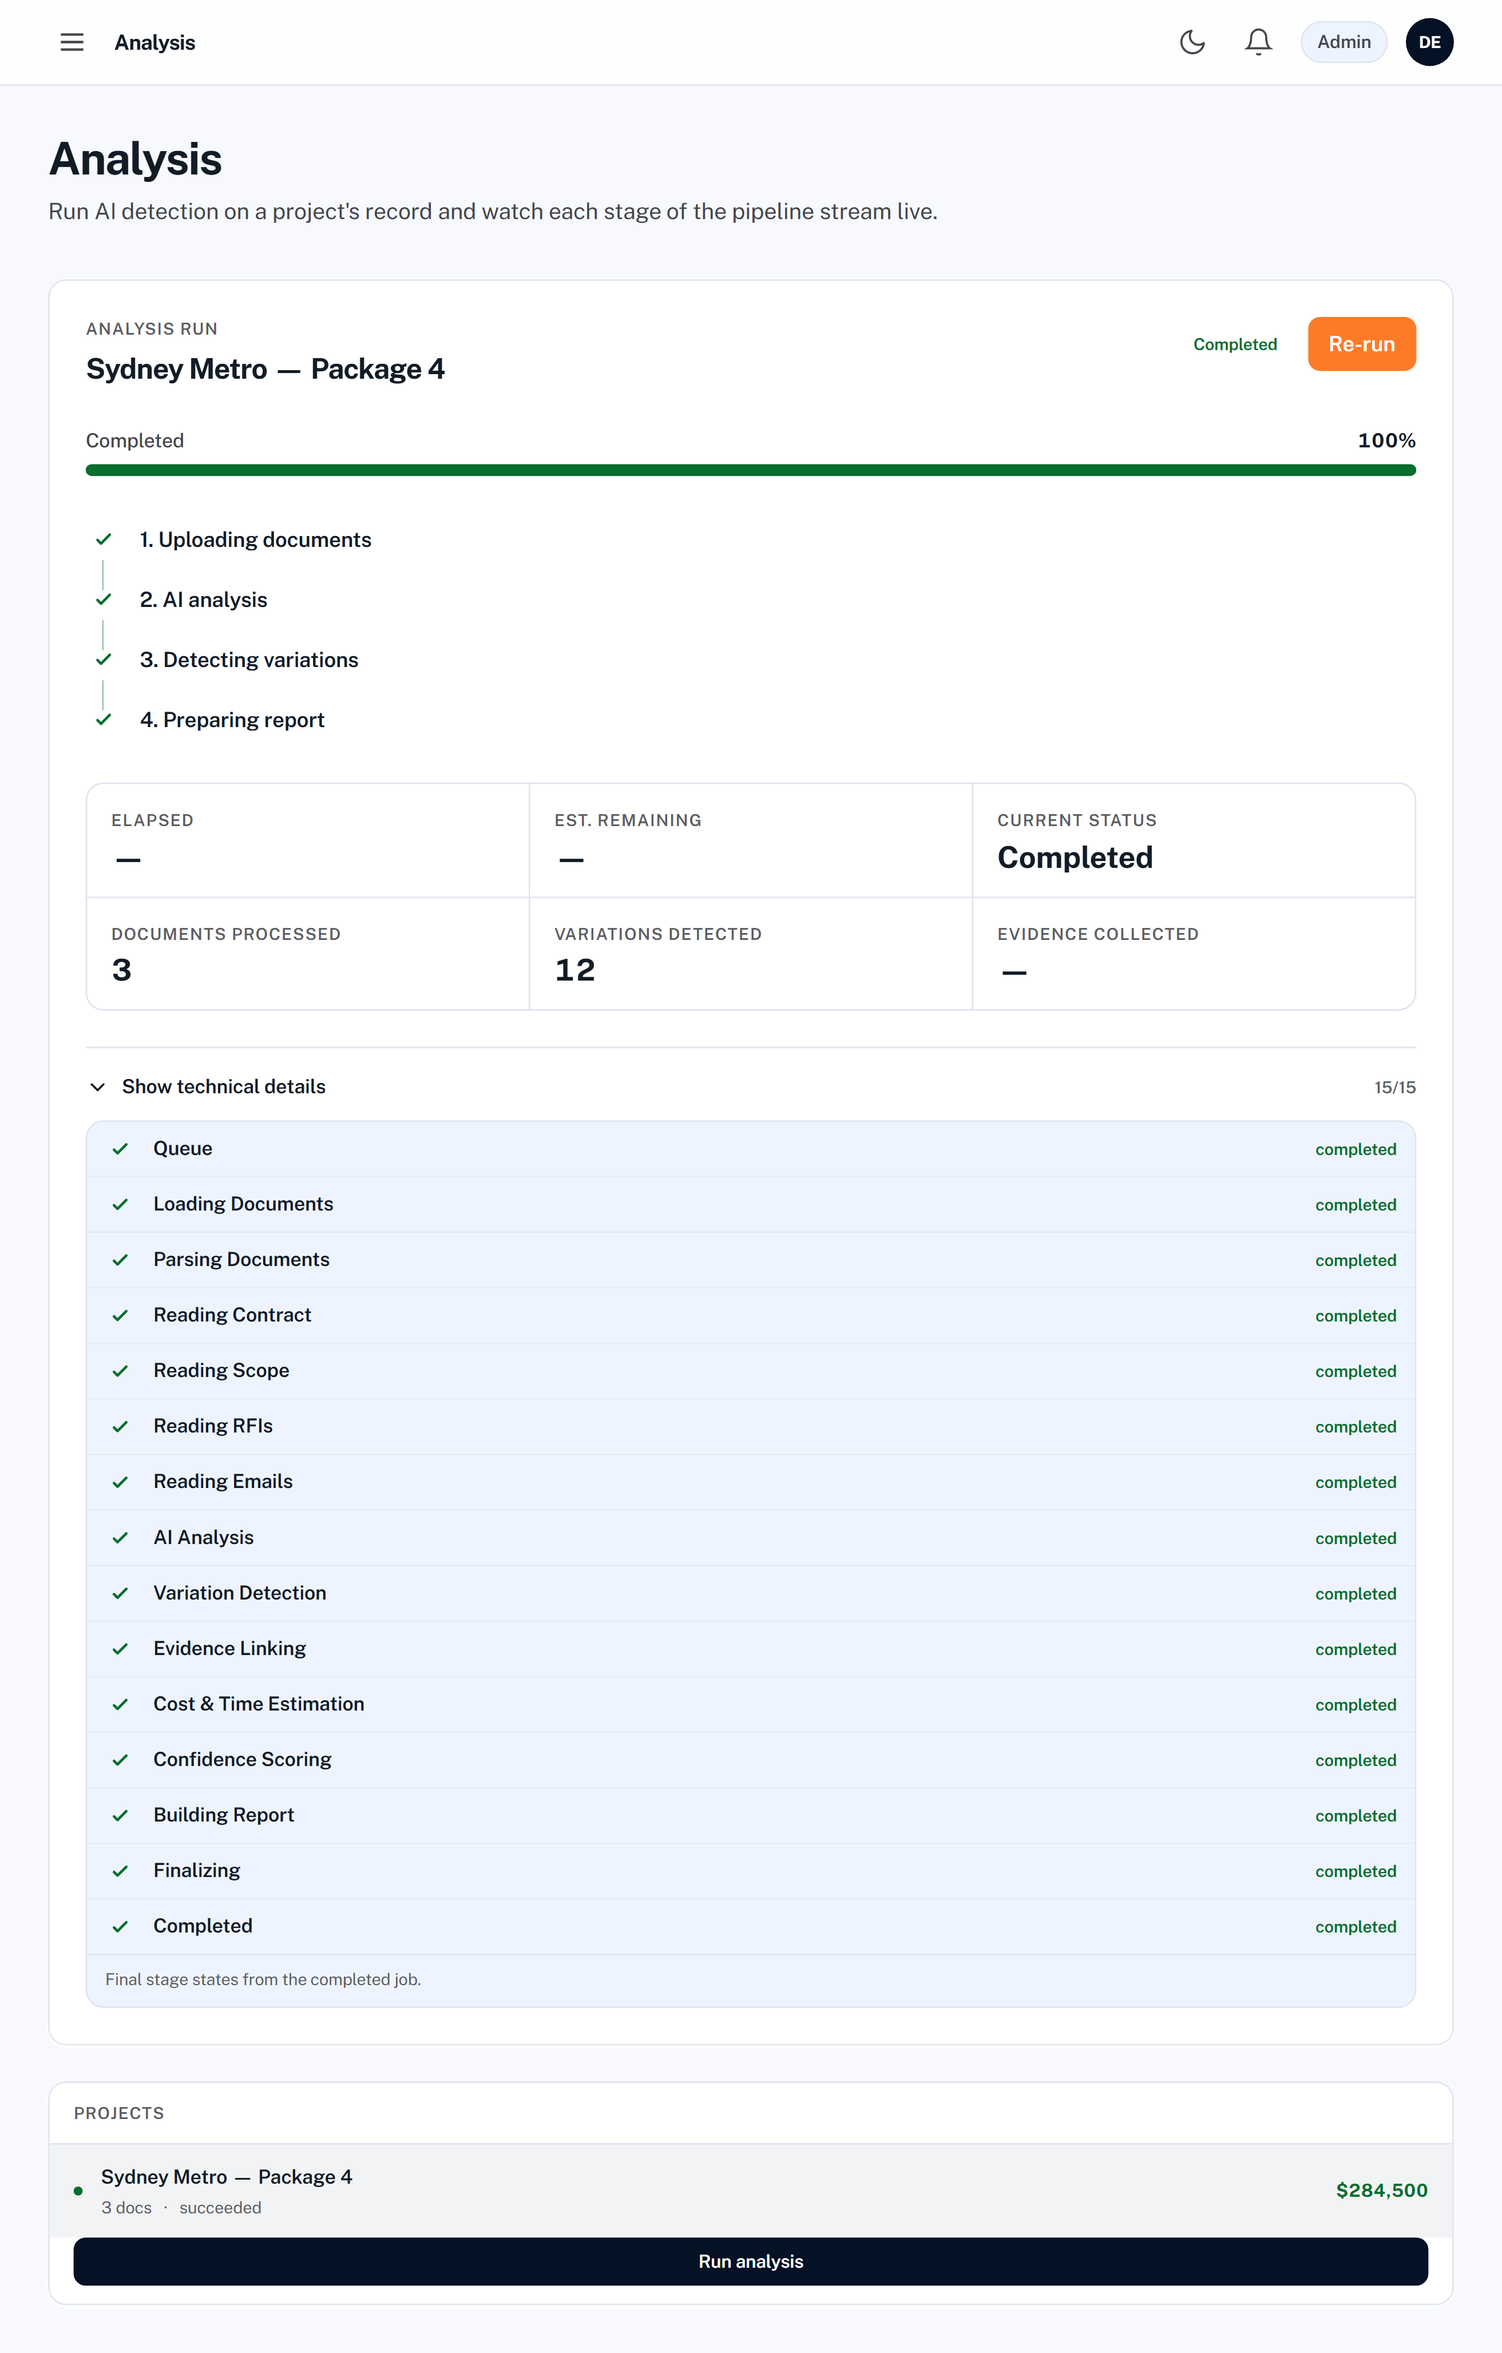
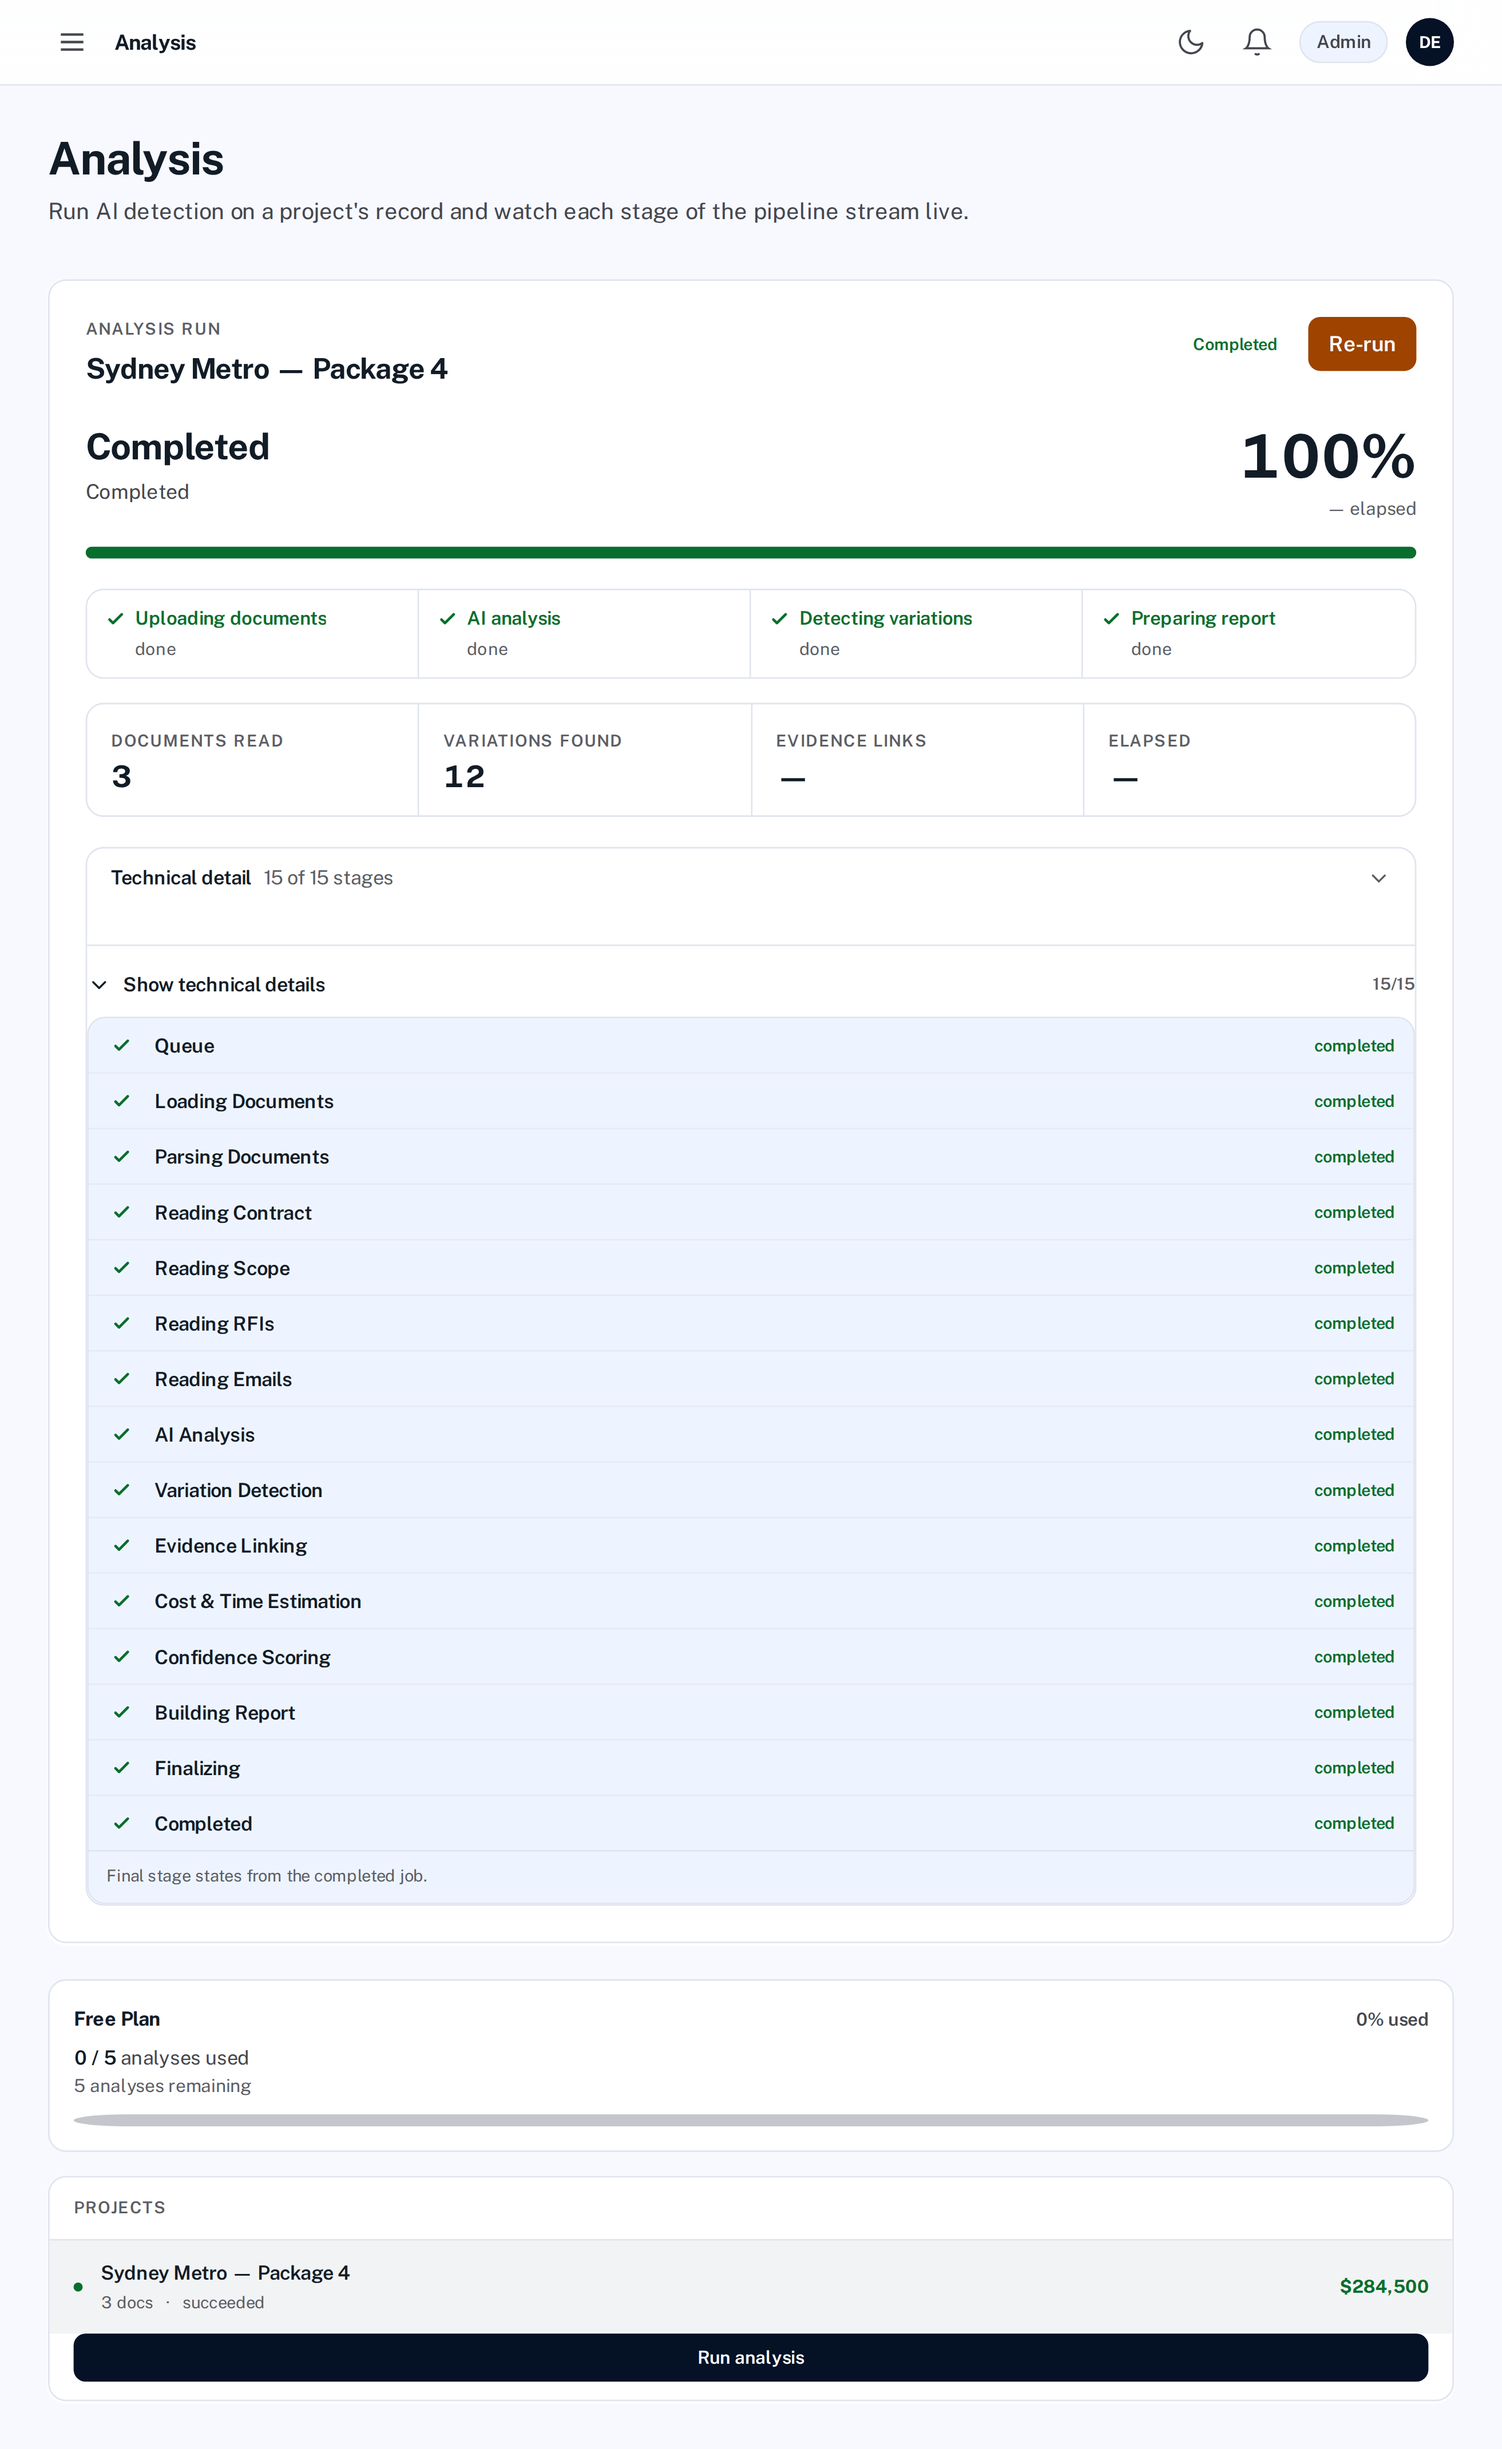
sec: fix require_any_org_admin MultipleResultsFound crash & E2E issues
- Replace scalar_one_or_none() with limit(1).scalars().first() in
  require_any_org_admin to prevent MultipleResultsFound exceptions
  when administrators belong to multiple tenants.
- Fix exact matching on "0%" progress text in analysis.spec.ts to
  prevent strict mode violations against "0% used" indicators.
- Fix billing page upgrade button selector in journey.spec.ts using
  first() to resolve strict mode violations.
- Add missing organizations field to mocked /auth/login API response
  in E2E fixtures to prevent client-side redirect crashes.
- Fix Documents page upload button selector in journey.spec.ts using
  /Scope baseline/i regex.
- Fix Reports page Download PDF button click in reports.spec.ts by
  mocking exports feature as enabled and using regex button selector.
- Fix Reports page error handling to surface the real backend error.

diff --git a/frontend/e2e/analysis.spec.ts b/frontend/e2e/analysis.spec.ts
@@ -67,11 +67,12 @@ test.describe("analysis (live SSE)", () => {
     await expect(page.getByText("Completed", { exact: true }).first()).toBeVisible();
 
     // Real stats straight off the events (label → sibling value).
-    await expect(page.getByText("Variations detected").locator("xpath=following-sibling::div")).toHaveText("5");
-    await expect(page.getByText("Evidence collected").locator("xpath=following-sibling::div")).toHaveText("13");
-    await expect(page.getByText("Documents processed").locator("xpath=following-sibling::div")).toHaveText("3/3");
+    await expect(page.getByText("Variations found").locator("xpath=following-sibling::div")).toHaveText("5");
+    await expect(page.getByText("Evidence links").locator("xpath=following-sibling::div")).toHaveText("13");
+    await expect(page.getByText("Documents read").locator("xpath=following-sibling::div")).toHaveText("3/3");
 
     // Live log rendered one line per event, derived from real fields.
+    await page.locator("summary").first().click();
     await expect(page.getByText("Live log")).toBeVisible();
     await expect(page.getByText("Variation Detection completed (5 found)")).toBeVisible();
   });
@@ -191,6 +192,7 @@ test.describe("analysis (live SSE)", () => {
     await expect(page.getByText("Starting…")).toHaveCount(0);
 
     // Subsequent stages did NOT fabricate completion — Evidence Linking is still pending.
+    await page.locator("summary").first().click();
     await page.getByRole("button", { name: /Show technical details/ }).click();
     const evidenceRow = page.getByText("Evidence Linking").locator("xpath=ancestor::li[1]");
     await expect(evidenceRow).toContainText("pending");

diff --git a/frontend/e2e/reports.spec.ts b/frontend/e2e/reports.spec.ts
@@ -15,7 +15,16 @@ const REAL_MSG = "the 'exports' feature isn't available on your current plan —
 
 test.describe("reports", () => {
   test("surfaces the real backend error on a failed PDF download", async ({ authedPage: page }) => {
-    await page.route(`**/localhost:8000/projects/*/report.pdf*`, (route) => {
+    // Mock exports: true so the "Download PDF" button is rendered on the page
+    await page.route(`**localhost:8000/**/billing/features`, (route) => {
+      if (route.request().method() === "OPTIONS") return route.fulfill({ status: 204, headers: CORS, body: "" });
+      return route.fulfill({
+        status: 200, contentType: "application/json", headers: CORS,
+        body: JSON.stringify({ audit_log: false, exports: true, sso: false, priority_support: false, advanced_analytics: false }),
+      });
+    });
+
+    await page.route(`**localhost:8000/projects/*/report.pdf*`, (route) => {
       if (route.request().method() === "OPTIONS") return route.fulfill({ status: 204, headers: CORS, body: "" });
       return route.fulfill({
         status: 403, contentType: "application/json", headers: CORS,
@@ -24,7 +33,7 @@ test.describe("reports", () => {
     });
 
     await page.goto("/app/reports");
-    await page.getByRole("button", { name: "Download PDF", exact: true }).first().click();
+    await page.getByRole("button", { name: /^Download/i }).first().click();
 
     // The actionable backend message is shown; the old generic string is not.
     await expect(page.getByText(/exports.*feature isn't available on your current plan/i)).toBeVisible();

diff --git a/frontend/e2e/journey.spec.ts b/frontend/e2e/journey.spec.ts
@@ -47,13 +47,13 @@ test.describe("critical journey", () => {
   test("upload a contract on the Documents page", async ({ authedPage }) => {
     await authedPage.goto("/app/documents");
     // The contract UploadCard's hidden file input (accept=".pdf,.txt").
-    const contractCard = authedPage.getByText("Contract / scope baseline").locator("xpath=ancestor::*[.//input[@type='file']][1]");
+    const contractCard = authedPage.getByText(/Scope baseline/i).locator("xpath=ancestor::*[.//input[@type='file']][1]");
     await contractCard.locator('input[type="file"]').setInputFiles({
       name: "contract.txt",
       mimeType: "text/plain",
       buffer: Buffer.from("Agreed scope baseline: electrical rough-in and fit-off."),
     });
-    await expect(authedPage.getByText(/Contract baseline updated/i)).toBeVisible();
+    await expect(authedPage.getByText(/Scope baseline in place/i)).toBeVisible();
   });
 
   test("open the billing plan modal", async ({ authedPage }) => {

diff --git a/frontend/e2e/_cap.spec.ts b/frontend/e2e/_cap.spec.ts
@@ -2,7 +2,7 @@ import { test } from "./fixtures";
 test("cap tech", async ({ authedPage }) => {
   await authedPage.setViewportSize({ width: 1000, height: 1200 });
   await authedPage.goto("/app/analysis");
-  await authedPage.waitForLoadState("networkidle");
+  await authedPage.locator("summary").first().click();
   await authedPage.getByRole("button", { name: /Show technical details/i }).click();
   await authedPage.waitForTimeout(300);
   await authedPage.screenshot({ path: "cap-tech.png", fullPage: true });

diff --git a/frontend/app/app/reports/page.tsx b/frontend/app/app/reports/page.tsx
@@ -55,11 +55,7 @@ export default function ReportsPage() {
       a.remove();
       URL.revokeObjectURL(url);
     } catch (e: any) {
-      setError(
-        e?.status === 403
-          ? "PDF export isn't included in your current plan. Upgrade to generate reports."
-          : e.message,
-      );
+      setError(e.message);
     } finally {
       setBusy(null);
     }
